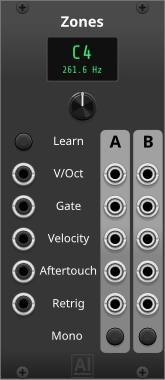
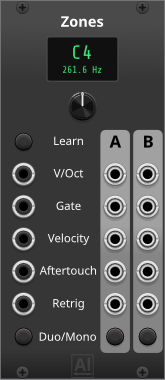
docs: refresh Zones screenshots for Duo mode
Update the panel and menu screenshots, add the Duo single-key submenu
screenshot, match the priority menu labels to the module, locate the
Duo/Mono buttons on the panel, and fix the Duo light color (yellow).

Changed region(s): [[0.1818, 0.8684, 0.5758, 0.8974], [0.0909, 0.8684, 0.1818, 0.9263], [0.1212, 0.8395, 0.1515, 0.8684]]

diff --git a/README.md b/README.md
@@ -64,8 +64,8 @@ Splits one polyphonic MIDI-CV stream into two note-range zones — Zone A (below
 **Knobs & switches**
 - **Split point** — the note at/above which incoming notes fall into Zone B (below it, Zone A). Its live note-name + frequency readout above the knob doubles as a right-click-editable text field: type a note name (`C4`, `F#3`, `Bb2`, …) directly instead of dialing it in.
 - **Learn** (lit button) — arms the module to set the split point from the very next note played on the Pitch input, instead of dialing the knob by hand. That learning note itself is excluded from the outputs (it never plays through); only notes played after Learn turns back off do. Click the lit button again to cancel learning without playing a note.
-- **Zone A Mono** / **Zone B Mono** (lit buttons) — *Polyphonic* (passthrough of that zone's own channels, unchanged channel indices, so downstream polyphonic modules never see a spurious retrigger) or *Monophonic* (a single, true-legato voice — see above — reduced per that zone's priority rule below).
-- **Duo** (lit button) — Moog Subsequent 37-style *DUO mode*: overrides both Mono buttons and ignores the split point, turning the two zones' outputs into two monophonic voices — voice B on the **highest** held note, voice A on the other held notes. This is an unusual mode, specific to a few synths; see [Duo mode](#duo-mode-subsequent-37-style) below for how it behaves and why.
+- **Zone A Mono** / **Zone B Mono** (lit buttons, bottom row under the A and B output columns, labeled *Duo/Mono*) — *Polyphonic* (passthrough of that zone's own channels, unchanged channel indices, so downstream polyphonic modules never see a spurious retrigger) or *Monophonic* (a single, true-legato voice — see above — reduced per that zone's priority rule below).
+- **Duo** (lit button, bottom-left, on the *Duo/Mono* row) — Moog Subsequent 37-style *DUO mode*: overrides both Mono buttons and ignores the split point, turning the two zones' outputs into two monophonic voices — voice B on the **highest** held note, voice A on the other held notes. This is an unusual mode, specific to a few synths; see [Duo mode](#duo-mode-subsequent-37-style) below for how it behaves and why.
 
 **Inputs**
 - **V/OCT**, **Gate**, **Velocity**, **Aftertouch**, **Retrigger** — the 5 polyphonic lanes from Core MIDI-CV (or an upstream Zones module's own zone outputs).
@@ -76,15 +76,17 @@ Splits one polyphonic MIDI-CV stream into two note-range zones — Zone A (below
 **Lights**
 - **Learn** (red) — lit while Learn is armed and waiting for a note.
 - **Zone A / Zone B mode** (white, built into the mode buttons) — lit while that zone is in Monophonic mode.
-- **Duo** (white, built into the button) — lit while Duo mode is on; both Zone mode lights are then forced on too, since both zones' outputs are monophonic. The split display reads `Duo` instead of the split note.
+- **Duo** (yellow, built into the button) — lit while Duo mode is on; both Zone mode lights are then forced on too, since both zones' outputs are monophonic. The split display reads `Duo` instead of the split note.
 
 **Context menu**
-- **Zone A priority (when monophonic)** / **Zone B priority (when monophonic)** — which held note plays when that zone is in Monophonic mode and more than one note overlaps: *Last note*, *Highest note*, or *Lowest note*. Zone A's setting also picks Duo voice A among the notes other than the highest (see Duo above).
+- **Monophonic priority (Zone A, and Duo voice A)** / **Monophonic priority (Zone B)** — which held note plays when that zone is in Monophonic mode and more than one note overlaps: *Last note*, *Highest note*, or *Lowest note*. Zone A's setting also picks Duo voice A among the notes other than the highest (see Duo above).
+
+![Zones' mono priority submenus](docs/images/Zones_Menu_Priority.png)
 
 - **Duo: single key** — what happens when only one key is held in Duo mode: *Both voices (Sub37, paraphonic)* (default — both voices play it, both gates high) or *A only (duophonic)* (voice B's gate stays low until a second key is held; its Pitch/Velocity/Aftertouch keep their last values so its envelope's release tail doesn't glide). Use the latter with one envelope per voice for true duophonic playing.
 - **Duo: retrigger on fallback to a held note** — off by default; when on, a voice also fires its Retrigger output when it falls back to a note that was already held (e.g. releasing the top key of two).
 
-![Zones' mono priority submenus](docs/images/Zones_Menu_Priority.png)
+![Zones' Duo single-key submenu](docs/images/Zones_Menu_Duo.png)
 
 **Patch ideas**
 - The one-keyboard, one-MIDI-channel setup this module exists for: patch Core MIDI-CV straight into one Zones module to get a simple upper/lower keyboard split, or chain two or three together to build several independent zones — bass on the lowest, chords in the middle, lead on top — all from a single physical keyboard.
